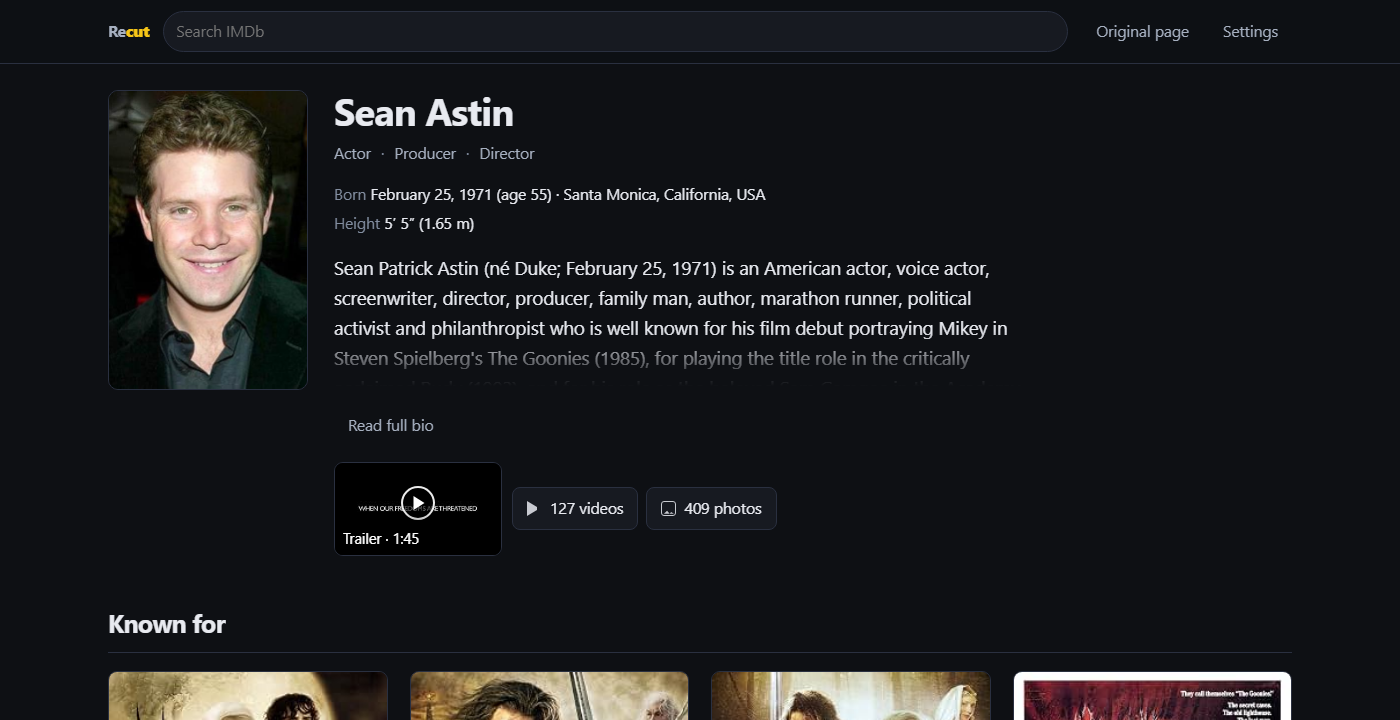
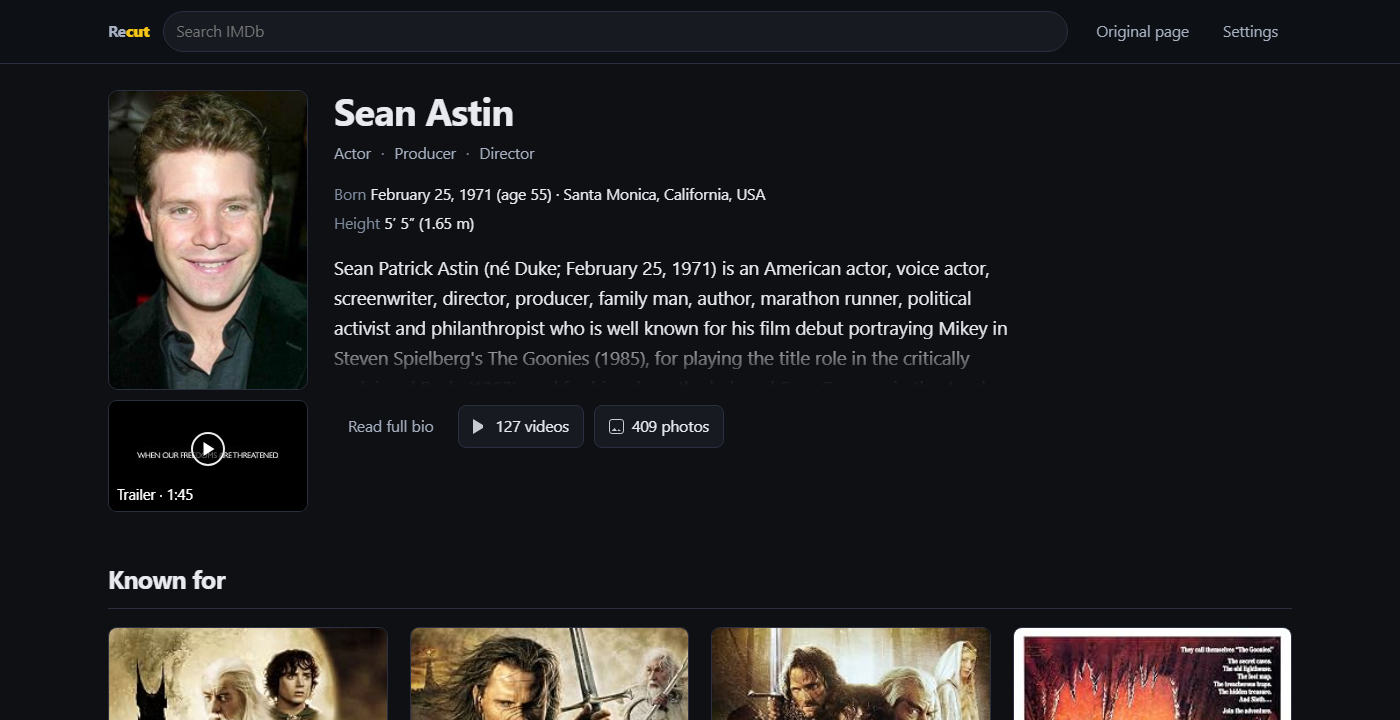
Fix the invisible lightbox, and tighten the media row's placement
The photos button did nothing because the takeover hides every direct child of
<body> that is not its own root, and the lightbox was appended to <body>. It
was created and immediately display:none. The earlier interaction test missed
this by asserting the element existed rather than that it was visible; the
lightbox now lives inside the root, the CSS rule exempts it, and load-test
asserts both halves.

Placement: the trailer preview moves under the poster, using space that was
otherwise empty, and the gallery buttons join the existing actions row rather
than claiming a line of their own. On person pages the bio toggle shares that
row too, saving another.

diff --git a/recut.user.js b/recut.user.js
@@ -1,7 +1,7 @@
 // ==UserScript==
 // @name         Recut for IMDb
 // @namespace    https://github.com/MohsenBlur/imdb-recut
-// @version      2.5.0
+// @version      2.6.0
 // @description  Replaces IMDb pages with a dense, quiet layout: cast, user reviews (with Rotten Tomatoes critic + audience scores), season/episode counts and recommendations for titles; known-for and a full filmography with the characters played for people. Everything else is gone.
 // @author       MohsenBlur
 // @match        https://www.imdb.com/*
@@ -1234,7 +1234,7 @@
    * upgrades the href, or removes the button when Letterboxd has no page.
    */
   function actionsHtml(t) {
-    const parts = [mediaChips(t)].filter(Boolean);
+    const parts = [mediaButtons(t)].filter(Boolean);
     if (LETTERBOXD_TYPES.test(t.typeId) && t.lbx !== null) {
       const href = (t.lbx && safeUrl(t.lbx.url)) || letterboxdRedirect(t.id);
       parts.push(interpolate(html`
@@ -1340,7 +1340,7 @@ html.imdbc-on body {
   margin: 0 !important;
   padding: 0 !important;
 }
-html.imdbc-on body > *:not(#imdbc-root):not(script):not(style):not(link) { display: none !important; }
+html.imdbc-on body > *:not(#imdbc-root):not(#imdbc-lightbox):not(#imdbc-restore):not(script):not(style):not(link) { display: none !important; }
 html.imdbc-on #imdbc-root { display: block; }
 html.imdbc-off #imdbc-root { display: none !important; }
 
@@ -1627,8 +1627,8 @@ a.imdbc-score:hover { border-color: var(--brand, var(--imdbc-border)); text-deco
 /* ── media chips and the panel they open ───────────────────────────────── */
 .imdbc-media-btns { display: inline-flex; gap: 8px; flex-wrap: wrap; }
 .imdbc-tpreview {
-  position: relative; width: 168px; aspect-ratio: 16 / 9; padding: 0; flex: 0 0 auto;
-  border: 1px solid var(--imdbc-border); border-radius: 9px; overflow: hidden;
+  position: relative; display: block; width: 100%; aspect-ratio: 16 / 9; margin-top: 10px;
+  padding: 0; border: 1px solid var(--imdbc-border); border-radius: 9px; overflow: hidden;
   background: var(--imdbc-panel-2); cursor: pointer;
 }
 .imdbc-tpreview img { width: 100%; height: 100%; object-fit: cover; display: block; }
@@ -2737,21 +2737,23 @@ a.imdbc-score:hover { border-color: var(--brand, var(--imdbc-border)); text-deco
    * asked for: the player is built on click, and photos go straight to the
    * lightbox without ever occupying page space.
    */
-  function mediaChips(m) {
-    const hasTrailer = settings.trailers && m.trailer && bestSource(m.trailer);
-    const hasVideos = settings.trailers && m.videos && m.videos.length > 1;
-    const hasPhotos = settings.photos && m.images && m.images.length;
-    if (!hasTrailer && !hasVideos && !hasPhotos) return '';
-
-    const preview = hasTrailer ? interpolate(html`
+  /** The preview tucks under the poster, using space that was otherwise dead. */
+  function trailerPreview(m) {
+    if (!(settings.trailers && m.trailer && bestSource(m.trailer))) return '';
+    return interpolate(html`
       <button type="button" class="imdbc-tpreview" data-imdbc-trailer aria-expanded="false"
               title="${m.trailer.name}">
         ${thumb(m.trailer.thumb, 240, 135, m.trailer.thumbSize)
           ? html`<img src="${thumb(m.trailer.thumb, 240, 135, m.trailer.thumbSize)}" alt="" loading="lazy" decoding="async">` : ''}
         <span class="play" aria-hidden="true"></span>
         <span class="lbl">Trailer${m.trailer.seconds ? html` · ${videoTime(m.trailer.seconds)}` : ''}</span>
-      </button>`) : '';
+      </button>`);
+  }
 
+  /** The gallery entry points ride along in the existing actions row. */
+  function mediaButtons(m) {
+    const hasVideos = settings.trailers && m.videos && m.videos.length > 1;
+    const hasPhotos = settings.photos && m.images && m.images.length;
     const buttons = [];
     if (hasVideos) {
       buttons.push(interpolate(html`
@@ -2765,7 +2767,7 @@ a.imdbc-score:hover { border-color: var(--brand, var(--imdbc-border)); text-deco
           <span class="ic pic" aria-hidden="true"></span>${compactNum(m.imageTotal || m.images.length)} photos
         </button>`));
     }
-    return preview + (buttons.length ? interpolate(html`<span class="imdbc-media-btns">${raw(buttons.join(''))}</span>`) : '');
+    return buttons.join('');
   }
 
   function playInline(host, video) {
@@ -2909,7 +2911,9 @@ a.imdbc-score:hover { border-color: var(--brand, var(--imdbc-border)); text-deco
     document.addEventListener('keydown', box.__keys);
 
     paint();
-    document.body.appendChild(box);
+    // Inside the root, so the takeover's body-child rule cannot hide it. It is
+    // position:fixed, so nesting costs nothing.
+    (document.getElementById('imdbc-root') || document.body).appendChild(box);
     box.focus();
   }
 
@@ -3007,6 +3011,7 @@ a.imdbc-score:hover { border-color: var(--brand, var(--imdbc-border)); text-deco
             <div class="imdbc-hero-poster">
               ${heroPoster ? html`<img src="${heroPoster}" alt="Poster for ${t.title}" decoding="async">` : ''}
             </div>
+            ${raw(trailerPreview(t))}
           </div>
           <div>
             <h1 class="imdbc-h1">${t.title}</h1>
@@ -3458,15 +3463,18 @@ a.imdbc-score:hover { border-color: var(--brand, var(--imdbc-border)); text-deco
             <div class="imdbc-hero-poster">
               ${photo ? html`<img src="${photo}" alt="Photo of ${p.name}" decoding="async">` : ''}
             </div>
+            ${raw(trailerPreview(p))}
           </div>
           <div>
             <h1 class="imdbc-h1">${p.name}</h1>
             ${p.professions.length ? html`<div class="imdbc-sub">${raw(p.professions.map(esc).join('<span class="dot">·</span>'))}</div>` : ''}
             ${lifeLines.length ? html`<div class="imdbc-crew">${raw(lifeLines.join(''))}</div>` : ''}
-            ${p.bio ? html`
-              <p class="imdbc-bio clamped" data-imdbc-bio>${p.bio}</p>
-              <button type="button" class="imdbc-btn imdbc-btn-ghost" data-imdbc-bio-toggle>Read full bio</button>` : ''}
-            ${mediaChips(p) ? html`<div class="imdbc-actions">${raw(mediaChips(p))}</div>` : ''}
+            ${p.bio ? html`<p class="imdbc-bio clamped" data-imdbc-bio>${p.bio}</p>` : ''}
+            ${(p.bio || mediaButtons(p)) ? html`
+              <div class="imdbc-actions">
+                ${p.bio ? html`<button type="button" class="imdbc-btn imdbc-btn-ghost" data-imdbc-bio-toggle>Read full bio</button>` : ''}
+                ${raw(mediaButtons(p))}
+              </div>` : ''}
             <div class="imdbc-mediapanel" data-imdbc-mediapanel></div>
           </div>
         </div>
